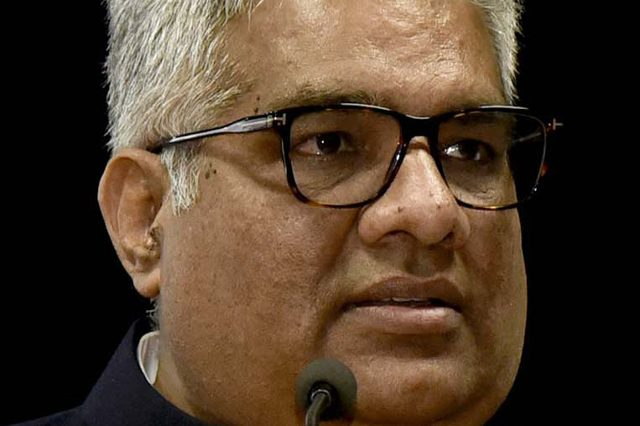
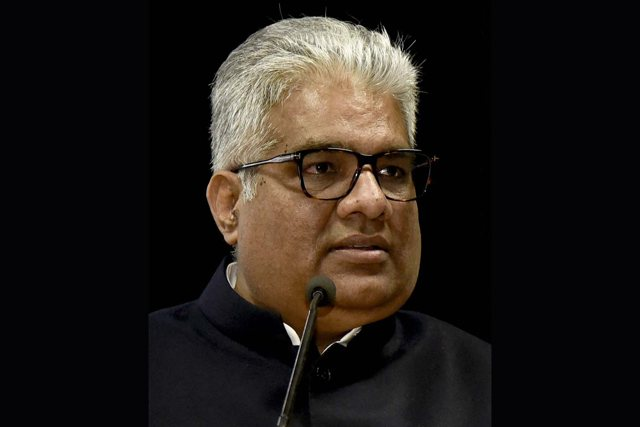
Hourly 14:00 IST: India's first indigenous H5N1 poultry vaccine (new, lead), COP31 India statement (update in place)
New: bird-flu-vaccine-h5n1-chouhan-nihsad-bhopal (national desk; PIB release of November 18; Shivraj Singh Chouhan library photo). Lead.
Updated: cop31-midpoint-antalya-stocktake-adaptation-finance-cover-decision (world desk), rewritten around India's national statement; new Bhupender Yadav portrait from Commons.
Markets: Sensex 83,796.78 and Nifty 25,739.15 at 1:06 pm; FII/DII flows for November 19.
Homepage: the middle column of the front page now fills with the newest long-form pieces on a thin news day (src/lib/home.ts), capped at two per section; dropped the New START explainer, the AI171 probe story and the SCO forum story from the top.
Held: none. Breaches: none.
Editor: FAIL on COP31 (picture crop, stale lines) and homepage notes; all fixed by the run (editor.json "fixed"). Lead kept on the bird flu vaccine because the Shenzhen and Akvan news stories are past the 16-hour lead limit.
Decision: second story was an update, not a new page, because COP31 was already covered (one page per story).

Claude-Session: https://claude.ai/code/session_01C3zerWQxqQtcfbxwZRTvWv

diff --git a/content/hi/news/cop31-midpoint-antalya-stocktake-adaptation-finance-cover-decision.md b/content/hi/news/cop31-midpoint-antalya-stocktake-adaptation-finance-cover-decision.md
@@ -7,14 +7,14 @@ section: world
 format_label: "दुनिया / जलवायु"
 topics: []
 title: "भारत ने कॉप31 में कहा, ग्लोबल साउथ पर पुराने उत्सर्जन का बोझ डालना 'अनुचित', अंताल्या वार्ता आखिरी दिन में"
-standfirst: "पर्यावरण मंत्री भूपेंद्र यादव ने 18 नवंबर को भारत के राष्ट्रीय वक्तव्य में समानता और जलवायु वित्त को केंद्र में रखा, जबकि तय समापन के दिन भी साझा राजनीतिक फैसला और अनुकूलन वित्त अटके रहे।"
+standfirst: "पर्यावरण मंत्री भूपेंद्र यादव ने 18 नवंबर को भारत के राष्ट्रीय वक्तव्य में समानता और जलवायु वित्त को केंद्र में रखा। सम्मेलन 20 नवंबर को खत्म होना था और आखिरी प्रकाशित रिकॉर्ड में साझा फैसला और अनुकूलन वित्त खुले थे।"
 published: 2026-11-15T18:16:00+05:30
-updated: 2026-11-20T14:20:00+05:30
+updated: 2026-11-20T14:40:00+05:30
 location: अंताल्या
 keyPoints:
   - "भूपेंद्र यादव ने कहा कि **बचे हुए कार्बन बजट तक समान पहुंच 'गैर-परक्राम्य' है** और ग्लोबल साउथ पर पुराने उत्सर्जन का बोझ डालना अनुचित है।"
   - "भारत उन देशों में है जो **आईपीसीसी की अगली आकलन रिपोर्टें 2029 तक टालने** पर ज़ोर दे रहे हैं, जबकि दर्जनों देश उन्हें 2028 की वैश्विक समीक्षा से पहले चाहते हैं।"
-  - "सम्मेलन **आज, 20 नवंबर** को खत्म होना है, और 18 नवंबर तक 21 एजेंडा मद अनसुलझे थे।"
+  - "सम्मेलन **आज, 20 नवंबर** को खत्म होना तय है; **18 नवंबर को 21 एजेंडा मद खुले थे**।"
 hero:
   need: "Bhupender Yadav, India's Environment Minister, at climate talks"
   suggested_source: "Bhupender Yadav"
@@ -72,7 +72,7 @@ verification:
   notes:
     - "Hindi twin of the English file; same figures and sources."
 ---
-भारत ने बुधवार, 18 नवंबर 2026 को तुर्किये के अंताल्या में चल रहे संयुक्त राष्ट्र जलवायु सम्मेलन में अपने राष्ट्रीय वक्तव्य में मांग की कि अंतिम समझौता **समानता, जलवायु न्याय और अमीर देशों से वित्त** पर टिका हो। वार्ताकार शुक्रवार, 20 नवंबर के तय आखिरी दिन में पहुंच गए, पर मुख्य राजनीतिक पाठ अब भी तय नहीं है। कॉप31 में भारत के प्रतिनिधिमंडल की अगुवाई कर रहे पर्यावरण मंत्री **भूपेंद्र यादव** ने मंत्रियों से कहा कि ऊंची महत्वाकांक्षा के नाम पर ग्लोबल साउथ से पुराने उत्सर्जन के नतीजे उठवाना "अनुचित" है, ऐसा उनके संबोधन के विवरणों में बताया गया।
+भारत ने बुधवार, 18 नवंबर 2026 को तुर्किये के अंताल्या में चल रहे संयुक्त राष्ट्र जलवायु सम्मेलन में अपने राष्ट्रीय वक्तव्य में मांग की कि अंतिम समझौता **समानता, जलवायु न्याय और अमीर देशों से वित्त** पर टिका हो। मुख्य राजनीतिक पाठ अब भी तय नहीं है। सम्मेलन आज, शुक्रवार, 20 नवंबर को खत्म होना तय है और दोपहर 2 बजे तक अंतिम दिन का कोई नतीजा प्रकाशित नहीं हुआ था। कॉप31 में भारत के प्रतिनिधिमंडल की अगुवाई कर रहे पर्यावरण मंत्री **भूपेंद्र यादव** ने मंत्रियों से कहा कि ऊंची महत्वाकांक्षा के नाम पर ग्लोबल साउथ से पुराने उत्सर्जन के नतीजे उठवाना "अनुचित" है, ऐसा उनके संबोधन के विवरणों में बताया गया।
 
 ## भारत ने क्या कहा
 
@@ -90,10 +90,6 @@ verification:
 
 रिपोर्टों के अनुसार पैराग्राफ 65 कॉप28 की जीवाश्म ईंधन से हटने की प्रतिबद्धता दोहराता है, और पैराग्राफ 66 "जीवाश्म ईंधन को चरणबद्ध ढंग से खत्म करने की तेज़ कार्रवाई" का ज़्यादा सख्त शब्दांकन सुझाता है, पर कोई बाध्यकारी समय-सीमा नहीं देता। मसौदे में **2035 तक वैश्विक अंतिम ऊर्जा खपत में बिजली का हिस्सा 35%** करने का सामूहिक, गैर-बाध्यकारी लक्ष्य भी है, जो तुर्किये की पहल है और अभी के करीब 23% से ऊपर है। अनुकूलन धन पर तिगुना करने का आधार और निगरानी वाला रास्ता है। विकासशील देश सालाना कम से कम 120 अरब डॉलर चाहते हैं। मसौदा 1.5 डिग्री की सीमा टूटने के करीब होने पर "गहरी चिंता" जताता है।
 
-```photo
-{"n":1,"subject":"Chris Bowen","caption":"ऑस्ट्रेलिया के जलवायु मंत्री क्रिस बोवेन, जो कॉप31 वार्ता की अध्यक्षता कर रहे हैं और जिन्होंने 16 नवंबर को मसौदा जारी किया।","alt":"ऑस्ट्रेलिया के जलवायु मंत्री क्रिस बोवेन"}
-```
-
 ## जहां भारत का रुख विवादित है
 
 जीवाश्म ईंधन और बिजलीकरण पर भारत का रुख देखे गए विवरणों में साफ नहीं था, पर **विज्ञान की समय-सारिणी** पर था। भारत, सऊदी अरब, चीन, रूस और केन्या के साथ, आईपीसीसी की अगली आकलन रिपोर्टों की तैयारी के लिए और वक्त मांग रहा है। दर्जनों देश चाहते हैं कि वे उत्सर्जन कटौती की 2028 की वैश्विक समीक्षा से पहले तैयार हों। भारत और सऊदी अरब समेत एक छोटा समूह उन्हें 2029 तक टालना चाहता है। डेनमार्क की समीरा नावा ने कहा, "विज्ञान के मामले में कोई समझौता नहीं हो सकता।" सऊदी अरब का तर्क है कि विकासशील देशों को भागीदारी के लिए ज़्यादा वक्त चाहिए। इस पर सम्मेलन के शुरू में हमारी [आईपीसीसी समय-सारिणी विवाद की रिपोर्ट](/hi/news/ipcc-ar7-timeline-dispute-cop31-eu-acconcia) थी।
@@ -102,7 +98,7 @@ verification:
 
 ## सभा में रुख
 
-18 नवंबर को अध्यक्षता ने बताया कि **21 अनिवार्य एजेंडा मद अब भी अनसुलझे हैं**। उसी दिन मंत्रियों की बंद कमरे की बैठक हुई। कॉप31 के अध्यक्ष और तुर्किये के पर्यावरण मंत्री **मुरात कुरुम** ने कहा कि कमरे में "खुलकर और साफगोई से" बात हुई और "अहम प्रगति" हुई। फ्रांस की मोनिक बारबू ने कहा कि बैठक से वार्ता शायद आगे न बढ़ी हो, पर देशों को एक-दूसरे का रुख समझने में मदद मिली।
+बुधवार, 18 नवंबर को अध्यक्षता ने बताया कि **21 अनिवार्य एजेंडा मद अब भी अनसुलझे हैं**। उसी दिन मंत्रियों की बंद कमरे की बैठक हुई। कॉप31 के अध्यक्ष और तुर्किये के पर्यावरण मंत्री **मुरात कुरुम** ने कहा कि कमरे में "खुलकर और साफगोई से" बात हुई और "अहम प्रगति" हुई। फ्रांस की मोनिक बारबू ने कहा कि बैठक से वार्ता शायद आगे न बढ़ी हो, पर देशों को एक-दूसरे का रुख समझने में मदद मिली।
 
 जीवाश्म ईंधन पर कमरा बंटा रहा। पुर्तगाल और आयरलैंड ने अपने चरणबद्ध समाप्ति रोडमैप पेश किए, जो फ्रांस, जर्मनी, फिनलैंड, डेनमार्क और नीदरलैंड से जुड़ गए। तुवालु के माइना तालिया ने योजना से अमल की ओर बढ़ने की अपील की। फिजी की लिंडा ताबुया ने कहा, "हमारे देश डूब रहे हैं और यह हमारे लोगों के अस्तित्व का सवाल है।" पनामा के हुआन कार्लोस नवारो ने "पेट्रोलियम माफिया" पर हमला बोला और चीन तथा तेल उत्पादकों से विकासशील देशों के लिए धन देने को कहा। चीन के प्रतिनिधिमंडल प्रमुख ली गाओ ने कहा कि सबसे बड़ी बाधा पहचानना मुश्किल है। रिपोर्टों के अनुसार सऊदी अरब जीवाश्म ईंधन, बिजलीकरण और जलवायु विज्ञान की भाषा के खिलाफ काम करता रहा है, जिसे वह आंशिक रूप से नकारता है और कहता है कि प्रकाशन कार्यक्रम में उचित समीक्षा की गुंजाइश चाहिए।
 
@@ -120,4 +116,4 @@ verification:
 
 ## आगे क्या
 
-ऑस्ट्रेलिया से गुरुवार, 19 नवंबर की सुबह संशोधित पाठ जारी होने की उम्मीद थी। सम्मेलन आज खत्म होना तय है, पर कॉप28, कॉप29 और कॉप30 सब तय समय से आगे खिंचे, और हर फैसले के लिए सहमति चाहिए। अंतिम पाठ को प्रतिनिधियों के अंताल्या छोड़ने से पहले जीवाश्म ईंधन की भाषा, अनुकूलन वित्त का आधार, बिजलीकरण का लक्ष्य और आईपीसीसी का कैलेंडर तय करना होगा। अगला सम्मेलन अगले साल के मध्य में तुवालु में होने की उम्मीद है, जिसकी पूर्व बैठक डबलिन में होगी।
+शुक्रवार, 20 नवंबर को दोपहर 2 बजे तक हम जो स्रोत खोल सके उन पर अंतिम दिन का कोई नतीजा, 18 नवंबर के बाद का संशोधित पाठ या वार्ता का विस्तार प्रकाशित नहीं था। 18 नवंबर को ऑस्ट्रेलिया के प्रतिनिधिमंडल से गुरुवार, 19 नवंबर को संशोधित पाठ आने की उम्मीद थी। सम्मेलन आज खत्म होना तय है, पर कॉप28, कॉप29 और कॉप30 सब तय समय से आगे खिंचे, और हर फैसले के लिए सहमति चाहिए। अंतिम पाठ को प्रतिनिधियों के अंताल्या छोड़ने से पहले जीवाश्म ईंधन की भाषा, अनुकूलन वित्त का आधार, बिजलीकरण का लक्ष्य और आईपीसीसी का कैलेंडर तय करना होगा। अगला सम्मेलन अगले साल के मध्य में तुवालु में होने की उम्मीद है, जिसकी पूर्व बैठक डबलिन में होगी।

diff --git a/content/en/news/cop31-midpoint-antalya-stocktake-adaptation-finance-cover-decision.md b/content/en/news/cop31-midpoint-antalya-stocktake-adaptation-finance-cover-decision.md
@@ -6,14 +6,14 @@ section: world
 format_label: "World / Climate"
 topics: []
 title: "India tells COP31 that making the Global South pay for past emissions is 'unjustified' as Antalya talks reach their last day"
-standfirst: "Environment Minister Bhupender Yadav put equity and climate finance at the centre of India's national statement on November 18, while the cover decision and adaptation money stayed open on the scheduled closing day."
+standfirst: "Environment Minister Bhupender Yadav put equity and climate finance at the centre of India's national statement on November 18. The conference was due to close on November 20 with the cover decision and adaptation money still open on the last published record."
 published: 2026-11-15T18:16:00+05:30
-updated: 2026-11-20T14:20:00+05:30
+updated: 2026-11-20T14:40:00+05:30
 location: Antalya
 keyPoints:
   - "Bhupender Yadav said **equitable access to the remaining carbon budget is non-negotiable** and that burdening the Global South for past emissions is unjustified."
   - "India is among the countries pressing to **move the next IPCC assessments to 2029**, against dozens that want them before the 2028 global review."
-  - "The conference is due to close **today, November 20**, with 21 agenda items still unresolved on November 18."
+  - "The conference is scheduled to close **today, November 20**; **21 agenda items were still open on November 18**."
 hero:
   need: "Bhupender Yadav, India's Environment Minister, at climate talks"
   suggested_source: "Bhupender Yadav"
@@ -72,7 +72,7 @@ verification:
     - "Updated 2:20 pm IST Nov 20 from the Nov 15 midpoint story. Primary: News On AIR report of India's national statement (Nov 18) and opening statement (Nov 10); only a summary, not the full text, was on the page. The 'unjustified' quote and IPCC 2029 position rest on Gulf News; Nov 16 draft details on Turkiye Today and To Vima (outlets not named in text)."
     - "The outcome of the final day was not available when written; the revised text expected early Thursday was not confirmed. To Vima has a sidebar saying fossil fuels were dropped from a draft; its body describes paragraph 66 phase-out language, so the fossil fuel wording is attributed to the November 16 draft only."
 ---
-India used its national statement at the UN climate conference in Antalya, Türkiye, on Wednesday, November 18, 2026, to demand that the final deal rest on **equity, climate justice and finance from rich countries**, as negotiators ran into the scheduled last day, Friday, November 20, with the main political text still unsettled. Environment Minister **Bhupender Yadav**, who leads India's delegation at COP31, said asking the Global South to carry the consequences of past emissions in the name of higher ambition "is unjustified", according to accounts of his remarks to ministers.
+India used its national statement at the UN climate conference in Antalya, Türkiye, on Wednesday, November 18, 2026, to demand that the final deal rest on **equity, climate justice and finance from rich countries**, with the main political text still unsettled. The conference is scheduled to close today, Friday, November 20, and no final-day outcome had been published by 2 pm IST. Environment Minister **Bhupender Yadav**, who leads India's delegation at COP31, said asking the Global South to carry the consequences of past emissions in the name of higher ambition "is unjustified", according to accounts of his remarks to ministers.
 
 ## What India said
 
@@ -90,10 +90,6 @@ The presidency circulated an 18-page draft of the overall political decision, wi
 
 According to reports, paragraph 65 reaffirms the COP28 commitment to transition away from fossil fuels, and paragraph 66 proposes stronger wording calling for "accelerated action to phase out fossil fuels" without a binding deadline. The draft also sets a collective, non-binding goal of raising electricity to **35% of global final energy consumption by 2035**, a Turkish initiative, up from about 23% now. On adaptation money it sets a baseline and a monitored pathway to triple finance by 2035. Developing countries want at least $120 billion a year. It expresses "deep concern" about the looming breach of the 1.5°C limit.
 
-```photo
-{"n":1,"subject":"Chris Bowen","caption":"Australia's climate minister Chris Bowen, who chairs the COP31 negotiations and released the draft cover decision on November 16.","alt":"Australian climate minister Chris Bowen"}
-```
-
 ## Where India's position is contested
 
 India's stance on fossil fuels and electrification was not spelt out in the accounts reviewed, but its position on **science timing** was. India, with Saudi Arabia, China, Russia and Kenya, has pressed for more time to prepare the next set of IPCC assessments. Dozens of countries want them ready before the 2028 global stocktake of emissions cuts; a smaller group including India and Saudi Arabia wants them postponed to 2029. Denmark's Samira Nawa said "there is no compromise when it comes to science". Saudi Arabia argues developing countries need more time to take part. We reported on the [IPCC timeline dispute](/en/news/ipcc-ar7-timeline-dispute-cop31-eu-acconcia) earlier in the conference.
@@ -102,7 +98,7 @@ India also dropped out of the race to host a future conference. South Korea's mi
 
 ## Positions on the floor
 
-On November 18 the presidency reported that **21 mandated agenda items were still unresolved**. Ministers met in a closed-door council the same day. COP31 President **Murat Kurum**, Türkiye's environment minister, said they spoke "openly and frankly in the room" and that "significant gains" were made. France's Monique Barbut said the session may not have advanced the talks but helped countries understand one another.
+On Wednesday, November 18, the presidency reported that **21 mandated agenda items were still unresolved**. Ministers met in a closed-door council the same day. COP31 President **Murat Kurum**, Türkiye's environment minister, said they spoke "openly and frankly in the room" and that "significant gains" were made. France's Monique Barbut said the session may not have advanced the talks but helped countries understand one another.
 
 Fossil fuels split the room. Portugal and Ireland unveiled national phase-out roadmaps, joining France, Germany, Finland, Denmark and the Netherlands. Tuvalu's Maina Talia urged a move from planning to delivery. Fiji's Lynda Tabuya said: "Our countries are sinking and it's a matter of survival for our people." Panama's Juan Carlos Navarro attacked the "petroleum mafia" and asked China and oil producers to contribute funds. China's delegation head Li Gao said the biggest obstacle is hard to identify. Reports say Saudi Arabia has worked against fossil fuel, electrification and climate science language, which it denies in part, saying publication schedules must allow proper review.
 
@@ -120,4 +116,4 @@ For India, the finance and carbon-budget language decides how much public money 
 
 ## What happens next
 
-Australia was expected to release a revised text early on Thursday, November 19. The conference is scheduled to close today, but COP28, COP29 and COP30 all ran past their deadlines, and every decision needs consensus. Any final text will have to settle fossil fuel wording, the adaptation finance baseline, the electrification goal and the IPCC calendar before delegates leave Antalya. The next conference is expected in the middle of next year in Tuvalu, with a pre-event in Dublin.
+As of 2 pm IST on Friday, November 20, no final-day outcome, revised cover text after November 18 or extension of the talks had been published on the sources we could open. On November 18 Australia's delegation was expected to release a revised text on Thursday, November 19. The conference is scheduled to close today, but COP28, COP29 and COP30 all ran past their deadlines, and every decision needs consensus. Any final text will have to settle fossil fuel wording, the adaptation finance baseline, the electrification goal and the IPCC calendar before delegates leave Antalya. The next conference is expected in the middle of next year in Tuvalu, with a pre-event in Dublin.
